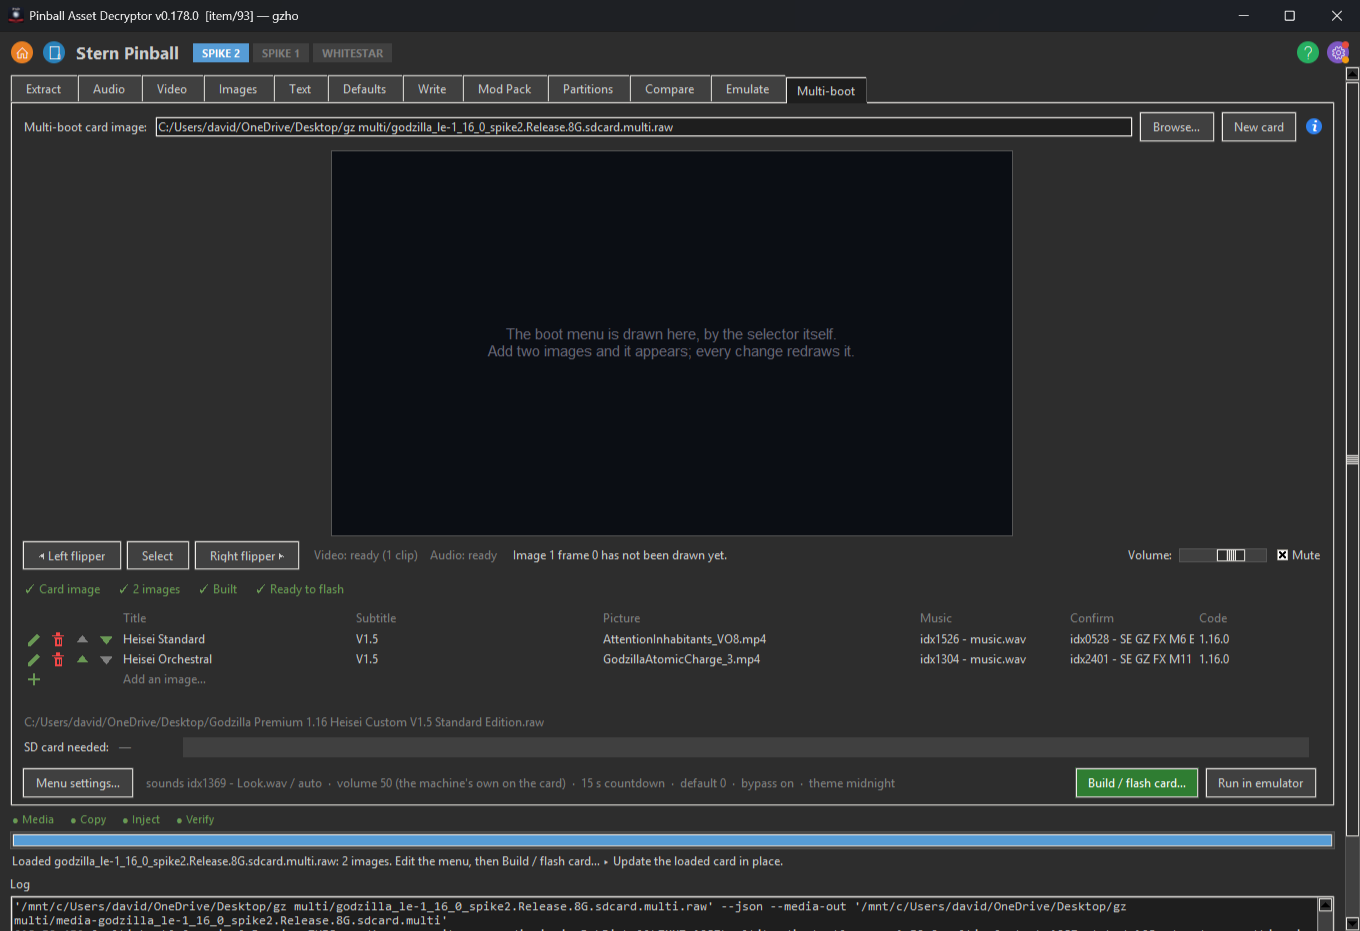
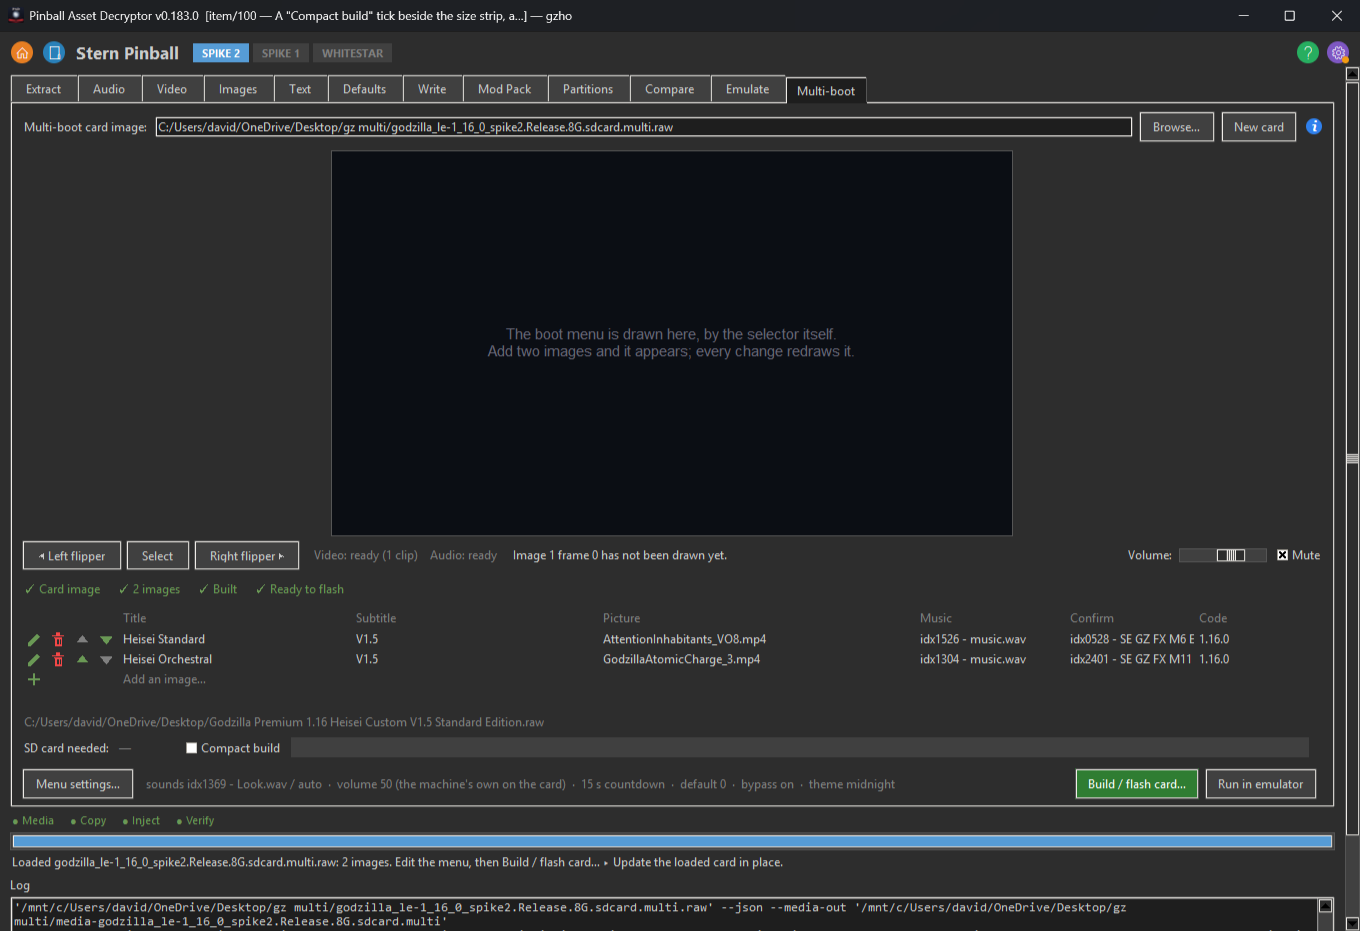
Item 100: the Compact build tick beside the size strip, and the bar hatches what it saves
The tick leaves the Menu settings dialog for the size row - the one place the size is
looked at (David: 'checkbox in the GUI next to the space needed section ... shows the
space savings on the space needed bar'). Its own trace re-plans (a layout is a size
question, not a menu field) and the plan key carries it; card_size_view names the
saving (image-size shared) and the bar draws it as clipped diagonal hatching over the
start of the free room, the detail line reads 'N of games, M saved, K free' and the
tooltip lists it. Off by default, as item 95 rules. Also: item 90's pinned exec line
in tests/test_spike2_codeselect_rig.py catches up with main's PAD_SEGV_REPORT default -
the one test the merge left red.

diff --git a/pinball_decryptor/gui/multiboot_tab.py b/pinball_decryptor/gui/multiboot_tab.py
@@ -3029,7 +3029,7 @@ def card_size_view(info):
     fits = info.get("fits") or {}
     view = {"known": bool(total), "need": None, "over": False,
             "total": total or 0, "scale": total or 1, "spare": None,
-            "cap": None, "bands": [], "head": "", "detail": ""}
+            "cap": None, "bands": [], "head": "", "detail": "", "saved": 0}
     if not total:
         return view
     biggest = fits.get(CARD_SIZES[-1][0])
@@ -3066,10 +3066,12 @@ def card_size_view(info):
         view["detail"] = ("%s of code - %s more than a %s card holds. Drop an "
                           "image." % (_gbytes(total), _gbytes(short), biggest))
     elif free is not None and info.get("shared"):
-        # the compact layout: the images' rows are what each brings on its
-        # own; what they share is stored once and is the saving
+        # the compact layout (items 95/100): the images' rows are what each
+        # brings on its own; what they share is stored once - the saving,
+        # drawn as a hatched part of the free room (clamped to it)
         view["head"] = view["need"]
-        view["detail"] = "%s of games, %s shared, %s free." % (
+        view["saved"] = int(info["shared"])
+        view["detail"] = "%s of games, %s saved, %s free." % (
             _gbytes(games), _gbytes(info["shared"]), _gbytes(free))
     elif free is not None:
         view["head"] = view["need"]
@@ -3615,21 +3617,6 @@ class MenuSettingsDialog(_Modal):
             row=4, column=0, columnspan=3, sticky=tk.W, pady=(4, 0))
         g.columnconfigure(1, weight=1)
 
-        layout = ttk.LabelFrame(b, text="Card layout")
-        layout.pack(fill=tk.X, pady=(10, 0))
-        g0 = ttk.Frame(layout)
-        g0.pack(fill=tk.X, padx=8, pady=6)
-        ttk.Checkbutton(g0, text="Compact card: store files the images "
-                                 "share only once (experimental)",
-                        variable=panel._compact_var).pack(anchor=tk.W)
-        ttk.Label(g0, foreground=th["gray"], wraplength=430, justify=tk.LEFT,
-                  text="One copy of every file the images have in common. "
-                       "Smaller card, same games. A card built this way must "
-                       "be changed with this app, not by a Stern USB update. "
-                       "Experimental until it has booted on a machine; off = "
-                       "the card layouts this app has always made.").pack(
-            anchor=tk.W, pady=(4, 0))
-
         look = ttk.LabelFrame(b, text="Look")
         look.pack(fill=tk.X, pady=(10, 0))
         g1 = ttk.Frame(look)
@@ -4114,7 +4101,9 @@ class MultibootPanel:
         #: The compact layout (item 95): OFF by default, and it stays off
         #: until the user ticks it - never set from a card that is merely
         #: loaded, only from one whose layout inspect reports as 'store'.
-        self._compact_var = tk.BooleanVar(value=False)
+        #: Made here unless the size strip (built earlier) already did.
+        if not hasattr(self, "_compact_var"):
+            self._compact_var = tk.BooleanVar(value=False)
         # THE SELECTOR BUILD PATH is no longer an entry box (David: the
         # Advanced section - "people are likely to mess it up").  It is the
         # default, overridable only by an env var for the rig.
@@ -4158,8 +4147,12 @@ class MultibootPanel:
         # follows every keystroke while a card is loaded.
         for var in (self._move_var, self._confirm_var, self._volume_var,
                     self._machine_vol_var, self._timeout_var,
-                    self._default_var, self._bypass_var, self._compact_var):
+                    self._default_var, self._bypass_var):
             var.trace_add("write", lambda *_a: self._menu_changed())
+        # Item 100: the compact tick beside the size strip.  Not a menu field
+        # (an inject never changes a card's layout: diff_forms puts it in the
+        # rebuild bucket), and what it changes is the SIZE - so it re-plans.
+        self._compact_var.trace_add("write", lambda *_a: self._compact_changed())
         self._theme_var.trace_add("write", lambda *_a: self._theme_changed())
         for var in self._color_vars.values():
             var.trace_add("write", lambda *_a: self._color_changed())
@@ -4993,9 +4986,23 @@ class MultibootPanel:
         "card spends on itself (boot, rootfs, /data, /dump and the "
         "filesystems' own bookkeeping). It re-measures itself whenever the "
         "image list changes, and for a loaded card it also works out what an "
-        "update would write. With the compact card ticked (Menu settings) "
-        "each band is what that image brings on its own and the line says "
-        "how much the images share - stored once, so not on the card.")
+        "update would write. With Compact build ticked each band is what "
+        "that image brings on its own, and the hatched part of the free "
+        "room is what compact saved - stored once, so not on the card.")
+
+    COMPACT_TIP = (
+        "Compact build (experimental): one copy of every file the images "
+        "have in common, stored once. Smaller card, same games - the bar "
+        "shows what it saves as a hatched part of the free room. A card "
+        "built this way must be changed with this app, not by a Stern USB "
+        "update. Off = the card layouts this app has always made.")
+
+    def _compact_changed(self):
+        """The compact tick moved: the size is a different question now
+        (the plan hashes the images to find what they share), and a loaded
+        card's edit status counts a layout change as a rebuild."""
+        self._update_edit_status()
+        self._maybe_plan()
 
     def _build_size(self, parent, th):
         """THE SIZE STRIP - the card these images need, under the images.
@@ -5025,6 +5032,20 @@ class MultibootPanel:
         self._size_need = ttk.Label(row, text=self.SIZE_UNKNOWN, width=9,
                                     anchor=tk.W)
         self._size_need.pack(side=tk.LEFT, padx=(6, 8))
+        # Item 100 (David: "checkbox in the GUI next to the 'space needed'
+        # section ... [x] Compact build ... shows the space savings on the
+        # bar"): the compact layout's tick lives HERE, where the size is
+        # looked at, and the bar answers what it buys.  Off by default (item
+        # 95's rule: opt-in, experimental until a store card has booted on a
+        # machine).  Packed before the bar so it is never the widget a
+        # narrow tab gives up.
+        if not hasattr(self, "_compact_var"):
+            self._compact_var = tk.BooleanVar(value=False)
+        self._compact_chk = ttk.Checkbutton(row, text="Compact build",
+                                            variable=self._compact_var)
+        self._compact_chk.pack(side=tk.LEFT, padx=(0, 8))
+        self._compact_tip = _Tooltip(self._compact_chk, self.COMPACT_TIP,
+                                     self._theme_fn)
         # The sentence is packed BEFORE the canvas and to the right, so the
         # BAR is the thing in the row that gives way when the tab is narrow -
         # this app unmaps the last widget of a row it cannot fit, and the
@@ -5090,6 +5111,13 @@ class MultibootPanel:
                         fill=th["gray"] if kind == "overhead" else th["accent"])
                 if x > 0:               # a hairline, so two bands read as two
                     canvas.create_line(x, 0, x, height, fill=th["trough"])
+                if kind == "free" and view.get("saved"):
+                    # Item 100: what compact saved, hatched over the start of
+                    # the free room (as much of it as the saving fills).
+                    # Lines, not a stipple - Tk ignores stipples on macOS.
+                    ws = min(w, width * view["saved"] / scale)
+                    self._hatch(canvas, x + 1, x + ws - 1, height,
+                                th["accent"])
                 x += w
             if view["over"] and view["cap"]:
                 # Everything past the biggest card there is, in the colour
@@ -5101,10 +5129,34 @@ class MultibootPanel:
             canvas.create_rectangle(0, 0, width - 1, height - 1,
                                     outline=th["border"])
             self._size_tip.text = self.SIZE_TIP + "\n\n" + "\n".join(
-                "%s: %s" % (label, _gbytes(size))
-                for label, size, _kind in view["bands"])
+                ["%s: %s" % (label, _gbytes(size))
+                 for label, size, _kind in view["bands"]]
+                + (["Saved by compact (stored once): %s" % _gbytes(view["saved"])]
+                   if view.get("saved") else []))
         except tk.TclError:                             # pragma: no cover
             pass
+
+    @staticmethod
+    def _hatch(canvas, x0, x1, height, color, step=6):
+        """Diagonal hatching over [x0, x1] x [1, height - 1]: 45-degree lines
+        every `step` px, each clipped to the box.  Nothing when the box has
+        no width."""
+        if x1 - x0 < 2:
+            return
+        h = height - 2
+        k = -h
+        while x0 + k < x1:
+            ax, ay = x0 + k, height - 1          # bottom-left end
+            bx, by = x0 + k + h, 1               # top-right end
+            if ax < x0:                          # clip at the left edge
+                ay -= x0 - ax
+                ax = x0
+            if bx > x1:                          # clip at the right edge
+                by += bx - x1
+                bx = x1
+            if bx > ax:
+                canvas.create_line(ax, ay, bx, by, fill=color)
+            k += step
 
     def _size_waiting(self):
         """The strip's line while there is no measurement: what it is waiting
@@ -6374,8 +6426,7 @@ class MultibootPanel:
                              self._default_var.get(), self._bypass_var.get(),
                              self._selector_var.get(), self._theme_var.get(),
                              {role: var.get()
-                              for role, var in self._color_vars.items()},
-                             self._compact_var.get())
+                              for role, var in self._color_vars.items()})
         self._menu_dialog = MenuSettingsDialog(self, len(self._rows))
         return self._menu_dialog.show()
 
@@ -6388,9 +6439,8 @@ class MultibootPanel:
         self._forget_menu_dialog()
         if self._menu_backup is not None:
             (move, confirm, vol, machine, timeout, default, bypass,
-             selector, theme, colors, compact) = self._menu_backup
+             selector, theme, colors) = self._menu_backup
             self._menu_backup = None
-            self._compact_var.set(compact)
             self._move_var.set(move)
             self._confirm_var.set(confirm)
             self._volume_var.set(vol)
@@ -6890,7 +6940,8 @@ class MultibootPanel:
         output path cannot change the answer - which is exactly what makes
         it safe to ask this question on every keystroke."""
         return (tuple((r.path or "").strip().strip('"') for r in self._rows),
-                self._loaded_card if self._loaded_trees else "")
+                self._loaded_card if self._loaded_trees else "",
+                bool(self._compact_var.get()))
 
     def _maybe_plan(self):
         """Keep the size sentence TRUE, without anyone having to ask.

diff --git a/tests/test_multiboot_tab.py b/tests/test_multiboot_tab.py
@@ -7520,11 +7520,13 @@ def test_parse_plan_reads_the_shared_row_and_the_strip_says_so():
     info = parse_plan(text)
     assert info["shared"] == 2500000000 and info["free"] == 5000000000 and info["bytes"] == 10000000000
     view = card_size_view(info)
-    assert view["detail"] == "4.00 GB of games, 2.50 GB shared, 5.00 GB free."
-    assert sum(b for _l, b, _k in view["bands"]) == 10000000000
+    assert view["detail"] == "4.00 GB of games, 2.50 GB saved, 5.00 GB free."
+    assert view["saved"] == 2500000000
+    assert sum(b for _l, b, _k in view["bands"]) == 10000000000     # the saving is not a band
     assert parse_plan("image-size free 1\n")["shared"] is None
     info["shared"] = None
-    assert card_size_view(info)["detail"] == "4.00 GB of games, 5.00 GB free for updates."
+    v2 = card_size_view(info)
+    assert v2["detail"] == "4.00 GB of games, 5.00 GB free for updates." and v2["saved"] == 0
 
 
 def test_form_from_inspect_reads_the_store_layout_as_the_compact_tick(monkeypatch, tmp_path):
@@ -7536,22 +7538,24 @@ def test_form_from_inspect_reads_the_store_layout_as_the_compact_tick(monkeypatc
     assert form_from_inspect(info, card, "")[0].compact is True
 
 
-def test_the_compact_tick_lives_in_the_menu_settings_and_the_state():
+def test_the_compact_tick_lives_beside_the_size_strip_and_in_the_state():
+    """Item 100: the tick is in the size row (not the Menu settings dialog),
+    off by default, part of the plan key (ticking it is a new size question),
+    saved and restored with the state."""
     root, panel = _panel()
     try:
         assert panel.form().compact is False and panel.state()["menu"]["compact"] is False
-        menu = panel.open_menu_settings()
+        chk = panel._compact_chk
+        assert chk.winfo_manager() == "pack" and chk.master is panel._size_row
+        assert chk.cget("text") == "Compact build"
+        key_off = panel._plan_key()
+        menu = panel.open_menu_settings()     # the dialog no longer carries it
         root.update()
-        panel._compact_var.set(True)
         menu.cancel()
         root.update()
-        assert panel._compact_var.get() is False          # Cancel restores it
-        menu = panel.open_menu_settings()
-        root.update()
         panel._compact_var.set(True)
-        menu.ok()
         root.update()
-        assert panel.form().compact is True
+        assert panel.form().compact is True and panel._plan_key() != key_off
         doc = panel.state()
         assert doc["menu"]["compact"] is True
         panel._compact_var.set(False)

diff --git a/tests/test_spike2_codeselect_rig.py b/tests/test_spike2_codeselect_rig.py
@@ -553,7 +553,7 @@ def test_cli_multiboot_is_one_line_and_an_exit_status(parts, monkeypatch, capsys
 EXEC_PIVOT = "        exec /.padqemu/game ./game </dev/null >/dump/game.out 2>&1"
 EXEC_CHROOT = ('exec chroot "$R" /bin/sh -c \\\n'
                '  "cd /games/$GAME && LD_PRELOAD=${PAD_TRACE_SO:+$PAD_TRACE_SO:}'
-               '/lib/hwshim.so PAD_AUDIO_OUT=/dump/audio.raw PAD_SEGV_REPORT=1 '
+               '/lib/hwshim.so PAD_AUDIO_OUT=/dump/audio.raw PAD_SEGV_REPORT=${PAD_SEGV_REPORT:-1} '
                'exec ./game"')
 
 

diff --git a/plans/TODO.md b/plans/TODO.md
@@ -84,8 +84,13 @@ These have each been violated at least once and each cost a run or a window:
 
 ## Queue
 
-- [ ] **100. A "Compact build" tick beside the size strip, and the strip shows
-      what compact saves.** `S2 D2` *(David, 2026-09-05: "checkbox in the GUI
+- [x] **100. A "Compact build" tick beside the size strip, and the strip shows
+      what compact saves.** `S2 D2` **SHIPPED on `item/100` 2026-09-05:** the tick
+      moved out of Menu settings into the size row (its own trace re-plans; the
+      plan key carries it), `card_size_view` names the saving, the bar hatches it
+      over the start of the free room (clipped diagonals, no stipple - macOS
+      ignores them), tooltip + detail line say "N GB saved"; state/restore/inspect
+      unchanged; sweep OK, screenshot regenerated. *(David, 2026-09-05: "checkbox in the GUI
       next to the 'space needed' section that says something like '[x] Compact
       build' and that shows the space savings on the 'space needed' bar.")*
       Item 95 put the compact (store layout) tick inside the Menu settings

diff --git a/tools/spike2_emu/README.md b/tools/spike2_emu/README.md
@@ -438,8 +438,8 @@ img1`), which the emulator's `run_game.sh` binds as it binds a p7 subtree.
 
 **Rules.**  Never USB-update a store card: a Stern update writes through hardlinked blobs
 into every tree sharing them - rebuild with this tool.  `bypass` refuses a store card (use
-`build --bypass-validation` / `update`).  The tick in the app ("Compact card: store files the
-images share only once (experimental)") is OFF by default and the layouts the app has always
+`build --bypass-validation` / `update`).  The tick in the app ("Compact build", beside the size
+strip; the bar hatches what it saves) is OFF by default and the layouts the app has always
 made are untouched without it.  Two things only hardware can prove: that Stern's update/spk
 layer tolerates `.blobs/` and `img1/` at the primary's `/games` root, and the same-device
 remount of p3's subtree; the tick says experimental until both have.
